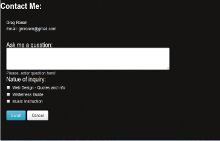
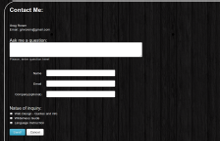
added some more pics

Changed region(s): [[0.0, 0.0, 1.0, 1.0]]

diff --git a/index.html b/index.html
@@ -67,9 +67,10 @@
   <li class="dropdown" data-dropdown="dropdown" >
     <a href="#" class="dropdown-toggle">Select</a>
     <ul class="dropdown-menu">
-      <li><a href="#About">About</a></li>
-      <li><a href="#Work">Work</a></li>
-      <li class="divider"></li>
+      <li><a href="#">Home</a></li>
+      <li><a href="#Work">Web</a></li>
+      <li><a href="#Photography">Outdoors</a></li>
+	  <li class="divider"></li>
       <li><a href="#Contact">Contact</a></li>
     </ul>
   </li>
@@ -273,12 +274,42 @@ On my off time, I enjoy being a mixture of a wilderness guide and photographer, 
 	
 		</div>
 	</div>
-
+</div>
 	
+<div class="row">
+  <div class="span16">
+  <form>
+  <fieldset>
+	<div class="clearfix">
+<label for="xlInput">Name</label>
+<div class="input">
+              <input class="xlarge" id="xlInput" name="xlInput" size="30" type="text">
+            </div>
+</div>
+
+<div class="clearfix">
+<label for="xlInput">Email</label>
+<div class="input">
+              <input class="xlarge" id="xlInput" name="xlInput" size="30" type="text">
+            </div>
+</div>
+
+<div class="clearfix">
+<label for="xlInput">Company(optional)</label>
+<div class="input">
+              <input class="xlarge" id="xlInput" name="xlInput" size="30" type="text">
+            </div>
+</div>
+	</fieldset>
+	</form>
+	
+	</div>
+   </div>
+
 	
 	<div class="row">
 <div class="span16">	
-&nbsp	<br />
+
 Natue of inquiry:
 
    <div class="input">
